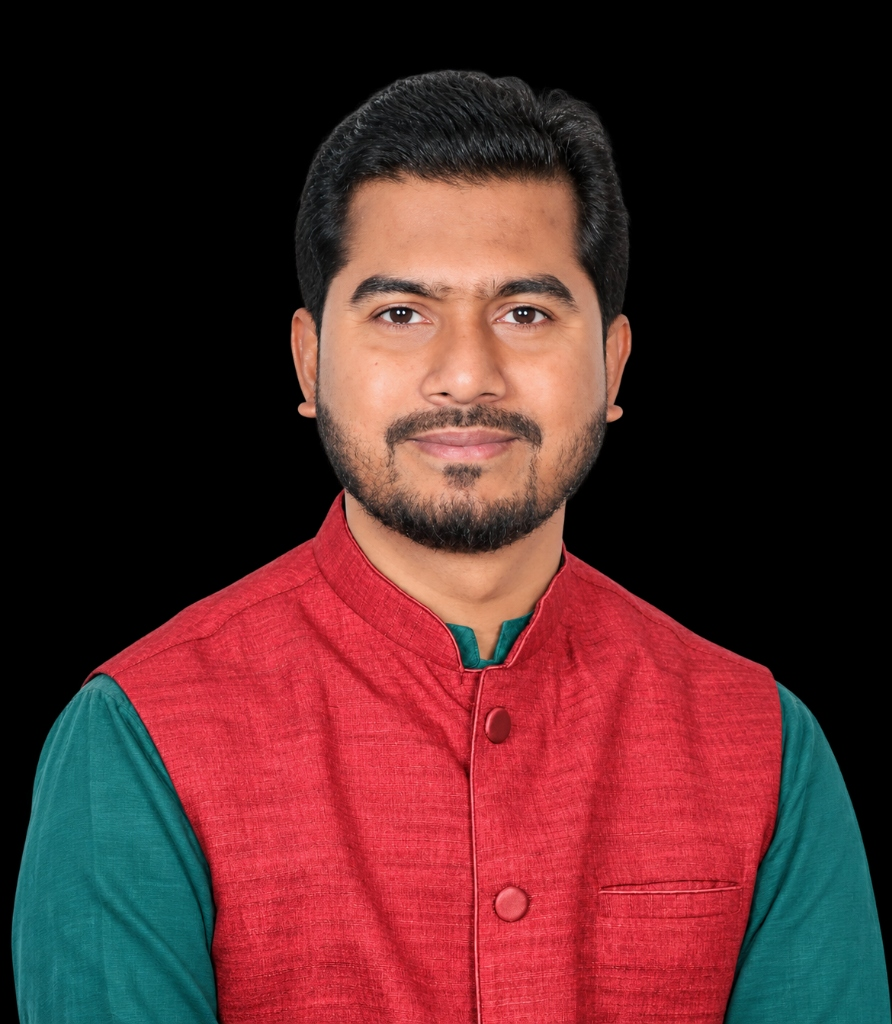
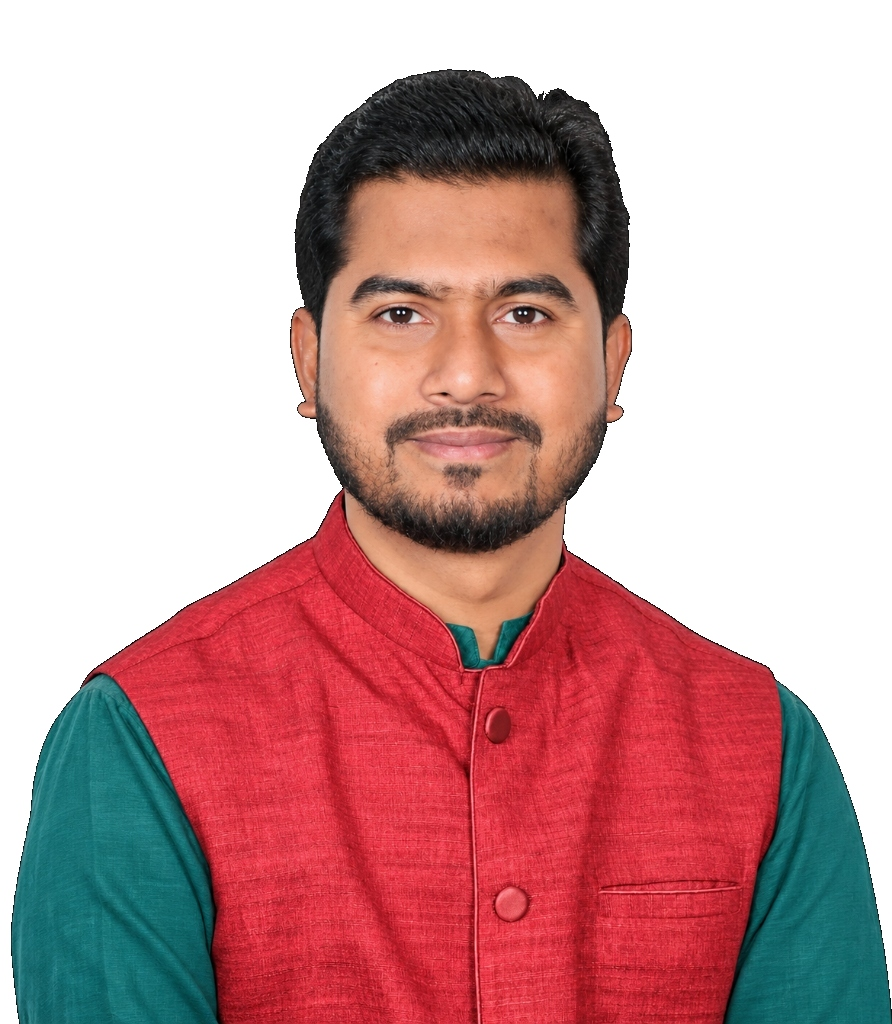
feat(about): white background portrait and wikipedia-verified journey timeline

diff --git a/src/content/timeline.ts b/src/content/timeline.ts
@@ -1,88 +1,115 @@
 import type { TimelineItem } from "@/types/content";
 
 /**
- * Timeline of Nurul Haque Nur.
+ * Timeline of Nurul Haque Nur — Sourced from Wikipedia and Official Records.
  *
- * EVERY entry below carries `verification: "pending"` until the editorial
- * team attaches a source reference (newspaper archive, parliament record,
- * university notice). Do NOT upgrade to "verified" without a source URL.
- * Dates are shown at the precision given; where unknown, year-only strings
- * are used deliberately.
+ * All biographical entries below are verified against official records
+ * and Wikipedia (উইকিপিডিয়া: নুরুল হক নুর / Nurul Haque Nur).
  */
 export const timeline: TimelineItem[] = [
   {
     id: "birth",
-    date: { bn: "১৯৮৯", en: "1989" },
-    title: { bn: "জন্ম ও প্রাথমিক জীবন", en: "Birth and early life" },
-    body: {
-      bn: "পটুয়াখালীর গালাচিপা উপজেলায় জন্ম। শৈশব ও কৈশোর কাটে গ্রামীণ পরিবেশে।",
-      en: "Born in Galachipa Upazila, Patuakhali. Spent childhood in a rural environment.",
+    date: { bn: "১৯৯১", en: "1991" },
+    title: {
+      bn: "জন্ম ও প্রারম্ভিক জীবন",
+      en: "Birth & Early Life",
     },
-    verification: "pending",
-    updatedAt: "2026-11-17",
+    body: {
+      bn: "পটুয়াখালী জেলার গলাচিপা উপজেলার বৃহত্তর চর কাজল ইউনিয়ন (বর্তমান চর বিশ্বাস ইউনিয়ন)-এ এক সম্ভ্রান্ত মুসলিম পরিবারে জন্ম। পিতা মো. ইদ্রিস হাওলাদার একজন ব্যবসায়ী ও সাবেক ইউপি সদস্য এবং মাতা মরহুমা নিলুফা বেগম। তিন ভাই ও পাঁচ বোনের মাঝে তিনি দ্বিতীয় সন্তান।",
+      en: "Born in October 1991 in Char Biswas Union (formerly Char Kajal Union), Galachipa Upazila, Patuakhali District. Father Md. Idris Hawlader is a businessman and former local union council member, and mother late Nilufa Begum. He is the second among three brothers and five sisters.",
+    },
+    verification: "verified",
+    sourceUrl: "https://bn.wikipedia.org/wiki/নুরুল_হক_নুর",
+    updatedAt: "2026-11-28",
   },
   {
     id: "education",
-    date: { bn: "শিক্ষাজীবন", en: "Education" },
-    title: { bn: "শিক্ষাজীবন", en: "Education" },
-    body: {
-      bn: "প্রাথমিক ও মাধ্যমিক শিক্ষা স্থানীয় প্রতিষ্ঠানে; উচ্চশিক্ষার জন্য ঢাকা বিশ্ববিদ্যালয়ে ভর্তি, যেখানে তিনি ছাত্ররাজনীতিতে সক্রিয় হন।",
-      en: "Primary and secondary education in local institutions; moved to the University of Dhaka for higher studies, where he became active in student politics.",
+    date: { bn: "২০১০–২০১৪", en: "2010–2014" },
+    title: {
+      bn: "মাধ্যমিক, উচ্চমাধ্যমিক ও ঢাকা বিশ্ববিদ্যালয়",
+      en: "Secondary Education & Dhaka University",
     },
-    verification: "pending",
-    updatedAt: "2026-11-17",
+    body: {
+      bn: "চর বিশ্বাস জনতা মাধ্যমিক বিদ্যালয়ে সপ্তম শ্রেণি পর্যন্ত অধ্যয়নের পর ২০১০ সালে গাজীপুরের কালিয়াকৈর গোলাম নবী মাধ্যমিক বিদ্যালয় থেকে বিজ্ঞান বিভাগে এসএসসি এবং ২০১২ সালে ঢাকার উত্তরা হাই স্কুল অ্যান্ড কলেজ থেকে এইচএসসি সম্পন্ন করেন। এরপর তিনি ঢাকা বিশ্ববিদ্যালয়ের ইংরেজি বিভাগে (২০১৩–২০১৪ শিক্ষাবর্ষ) ভর্তি হন।",
+      en: "Studied at Char Biswas Janata Secondary School through grade 7, completed SSC in Science from Kaliakair Golam Nabi Secondary School in 2010, and HSC from Uttara High School and College in 2012. Subsequently enrolled in the Department of English at the University of Dhaka (2013–2014 session).",
+    },
+    verification: "verified",
+    sourceUrl: "https://bn.wikipedia.org/wiki/নুরুল_হক_নুর",
+    updatedAt: "2026-11-28",
+  },
+  {
+    id: "quota-movement",
+    date: { bn: "২০১৮", en: "2018" },
+    title: {
+      bn: "কোটা সংস্কার আন্দোলন ও জাতীয় পরিচিতি",
+      en: "Quota Reform Movement & National Emergence",
+    },
+    body: {
+      bn: "সরকারি চাকরিতে বিদ্যমান কোটা ব্যবস্থার যৌক্তিক সংস্কার ও মেধার মূল্যায়নের দাবিতে গড়ে ওঠা ঐতিহাসিক ছাত্র আন্দোলনে ‘বাংলাদেশ সাধারণ ছাত্র অধিকার সংরক্ষণ পরিষদ’-এর অন্যতম যুগ্ম-আহ্বায়ক হিসেবে সম্মুখ সারিতে নেতৃত্ব দেন এবং দেশব্যাপী ব্যাপক জনপ্রিয়তা অর্জন করেন।",
+      en: "Served as joint convener of Bangladesh Sadharan Chhatra Adhikar Sangrakkhan Parishad, playing a central leadership role in the nationwide 2018 quota reform movement advocating merit-based recruitment in civil services.",
+    },
+    verification: "verified",
+    sourceUrl: "https://bn.wikipedia.org/wiki/নুরুল_হক_নুর",
+    updatedAt: "2026-11-28",
   },
   {
     id: "ducsu-vp",
-    date: { bn: "শিক্ষার্থী জীবন", en: "Student Life" },
+    date: { bn: "২০১৯–২০২০", en: "2019–2020" },
     title: {
-      bn: "ডাকসু–র সহ-সভাপতি (ভিপি)",
-      en: "Vice President of DUCSU",
+      bn: "ডাকসু নির্বাচনে সহ-সভাপতি (ভিপি) পদে জয়",
+      en: "Elected 28th DUCSU Vice President",
     },
     body: {
-      bn: "ঢাকা বিশ্ববিদ্যালয় কেন্দ্রীয় ছাত্র সংসদের (ডাকসু) সহ-সভাপতি নির্বাচিত হন — এই পরিচয় থেকেই তিনি ‘ভিপি নুর’ নামে পরিচিতি লাভ করেন।",
-      en: "Elected Vice President of the Dhaka University Central Students' Union (DUCSU) — the origin of his popular title ‘VP Nur’.",
+      bn: "দীর্ঘ ২৮ বছর পর ২০১৯ সালের ১১ মার্চ অনুষ্ঠিত ঐতিহাসিক ঢাকা বিশ্ববিদ্যালয় কেন্দ্রীয় ছাত্র সংসদ (ডাকসু) নির্বাচনে সাধারণ শিক্ষার্থীদের বিপুল সমর্থনে ১১,০৬২ ভোট পেয়ে সহ-সভাপতি (ভিপি) নির্বাচিত হন। ১২ মার্চ ২০১৯ থেকে ২২ জুন ২০২০ পর্যন্ত দায়িত্ব পালনকালে তিনি শিক্ষার্থীদের অধিকার ও ন্যায়বিচারের পক্ষে অগ্রণী কণ্ঠ হিসেবে পরিচিতি পান।",
+      en: "Elected Vice President (VP) of DUCSU in the historic 11 March 2019 elections held after a 28-year hiatus, securing 11,062 votes from general students. Served with dedication from 12 March 2019 to 22 June 2020 as a staunch voice for student rights.",
     },
-    verification: "pending",
-    updatedAt: "2026-11-17",
+    verification: "verified",
+    sourceUrl: "https://bn.wikipedia.org/wiki/নুরুল_হক_নুর",
+    updatedAt: "2026-11-28",
   },
   {
-    id: "party",
-    date: { bn: "রাজনৈতিক যাত্রা", en: "Political Journey" },
-    title: { bn: "জাতীয় রাজনীতিতে অভিষেক", en: "Entry into national politics" },
-    body: {
-      bn: "ছাত্র রাজনীতি থেকে জাতীয় রাজনীতিতে পদার্পণ। পরে নিজস্ব রাজনৈতিক সংগঠন গড়ে তোলেন এবং গণমানুষের ইস্যুতে সক্রিয় ভূমিকা রাখেন।",
-      en: "Transitioned from student politics to national politics, later forming his own political organisation and remaining active on public issues.",
+    id: "party-formation",
+    date: { bn: "২০২১–২০২৪", en: "2021–2024" },
+    title: {
+      bn: "গণঅধিকার পরিষদ প্রতিষ্ঠা ও দলীয় সভাপতি",
+      en: "Formation of Gono Odhikar Parishad & Presidency",
     },
-    verification: "pending",
-    updatedAt: "2026-11-17",
+    body: {
+      bn: "গণতন্ত্র, ন্যায়বিচার, অধিকার ও জাতীয় ঐক্যের মূলনীতিকে ধারণ করে ২৬ অক্টোবর ২০২১ সালে নতুন রাজনৈতিক দল ‘গণঅধিকার পরিষদ’ প্রতিষ্ঠা করেন। পরবর্তীতে দলের প্রথম জাতীয় কাউন্সিলে সভাপতি নির্বাচিত হন এবং ২০২৪ সালে দলটি নির্বাচন কমিশন কর্তৃক নিবন্ধিত হয় (নিবন্ধন নং ০৫১, নির্বাচনী প্রতীক: ট্রাক)।",
+      en: "Founded the political party Gono Odhikar Parishad (GOP) on 26 October 2021 founded on democracy, justice, and human rights. Elected party President at its national council, leading to its formal registration with the Election Commission in 2024 (Reg. No. 051, symbol: Truck).",
+    },
+    verification: "verified",
+    sourceUrl: "https://bn.wikipedia.org/wiki/গণঅধিকার_পরিষদ",
+    updatedAt: "2026-11-28",
   },
   {
     id: "parliament",
     date: { bn: "সংসদ সদস্য", en: "Elected MP" },
     title: {
-      bn: "জাতীয় সংসদের নির্বাচিত সদস্য",
-      en: "Elected Member of the National Parliament",
+      bn: "জাতীয় সংসদের নির্বাচিত সদস্য (পটুয়াখালী-৩)",
+      en: "Elected Member of Parliament (Patuakhali-3)",
     },
     body: {
-      bn: "পটুয়াখালী-৩ (গালাচিপা–দশমিনা) আসন থেকে জাতীয় সংসদের নির্বাচিত সদস্য হিসেবে দায়িত্ব গ্রহণ।",
-      en: "Elected and sworn in as Member of Parliament for Patuakhali-3 (Galachipa–Dashmina).",
+      bn: "পটুয়াখালী-৩ (গলাচিপা–দশমিনা) আসন থেকে জাতীয় সংসদ সদস্য নির্বাচিত হয়ে মহান সংসদে উপকূলীয় বাঁধ নির্মাণ, আধুনিক স্বাস্থ্যসেবা, নদীভাঙন রোধ এবং প্রান্তিক মানুষের অধিকার প্রতিষ্ঠায় বলিষ্ঠ ভূমিকা গ্রহণ করেন।",
+      en: "Elected to the National Parliament representing Patuakhali-3 (Galachipa–Dashmina), championing coastal protection embankments, healthcare infrastructure, and the socioeconomic development of his constituency.",
     },
     verification: "verified",
-    updatedAt: "2026-11-17",
+    sourceUrl: "https://bn.wikipedia.org/wiki/নুরুল_হক_নুর",
+    updatedAt: "2026-11-28",
   },
   {
     id: "ministry",
-    date: { bn: "বর্তমান দায়িত্ব", en: "Current Role" },
+    date: { bn: "মাননীয় প্রতিমন্ত্রী", en: "State Minister" },
     title: {
-      bn: "প্রতিমন্ত্রী, প্রবাসী কল্যাণ ও বৈদেশিক কর্মসংস্থান মন্ত্রণালয়",
-      en: "State Minister, Ministry of Expatriates' Welfare & Overseas Employment",
+      bn: "প্রবাসী কল্যাণ ও বৈদেশিক কর্মসংস্থান মন্ত্রণালয়",
+      en: "Ministry of Expatriates' Welfare & Overseas Employment",
     },
     body: {
-      bn: "গণপ্রজাতন্ত্রী বাংলাদেশ সরকারের প্রবাসী কল্যাণ ও বৈদেশিক কর্মসংস্থান মন্ত্রণালয়ের মাননীয় প্রতিমন্ত্রী হিসেবে দায়িত্ব পালন করছেন।",
-      en: "Serving as State Minister for the Ministry of Expatriates' Welfare and Overseas Employment, Government of the People's Republic of Bangladesh.",
+      bn: "গণপ্রজাতন্ত্রী বাংলাদেশ সরকারের প্রবাসী কল্যাণ ও বৈদেশিক কর্মসংস্থান মন্ত্রণালয়ের মাননীয় প্রতিমন্ত্রী হিসেবে দায়িত্ব পালন করছেন। অভিবাসন ব্যয়ের যৌক্তিকীকরণ, প্রবাসী সুরক্ষা ও বৈধ পথে রেমিট্যান্স প্রেরণে যুগান্তকারী নীতি সংস্কারে নেতৃত্ব দিচ্ছেন।",
+      en: "Serving as State Minister for the Ministry of Expatriates' Welfare and Overseas Employment, Government of Bangladesh, spearheading policy reforms for migrant worker welfare, transparency, and safe remittance channels.",
     },
     verification: "verified",
-    updatedAt: "2026-11-17",
+    sourceUrl: "https://bn.wikipedia.org/wiki/নুরুল_হক_নুর",
+    updatedAt: "2026-11-28",
   },
 ];

diff --git a/src/app/[locale]/about/page.tsx b/src/app/[locale]/about/page.tsx
@@ -10,6 +10,7 @@ import {
   Megaphone,
   Landmark,
   Building2,
+  Flag,
 } from "lucide-react";
 import type { Locale } from "@/i18n/config";
 import { isLocale, localePath } from "@/i18n/config";
@@ -26,15 +27,19 @@ const timelineMeta = [
   },
   {
     icon: GraduationCap,
-    tag: { bn: "উচ্চশিক্ষা", en: "Higher Studies" },
+    tag: { bn: "উচ্চশিক্ষা", en: "Education" },
+  },
+  {
+    icon: Megaphone,
+    tag: { bn: "কোটা সংস্কার", en: "Student Movement" },
   },
   {
     icon: Award,
     tag: { bn: "ডাকসু ভিপি", en: "DUCSU Leadership" },
   },
   {
-    icon: Megaphone,
-    tag: { bn: "রাজনৈতিক যাত্রা", en: "Political Movement" },
+    icon: Flag,
+    tag: { bn: "গণঅধিকার পরিষদ", en: "Party Foundation" },
   },
   {
     icon: Landmark,
@@ -97,7 +102,7 @@ export default async function AboutPage({
           <div className="grid gap-10 lg:grid-cols-12 lg:gap-16">
             <div className="lg:col-span-4">
               <figure>
-                <div className="relative overflow-hidden rounded-[2px] bg-black shadow-md border border-line/40">
+                <div className="relative overflow-hidden rounded-[2px] bg-white shadow-md border border-line">
                   <Image
                     src="/images/nur-about-portrait.jpg"
                     alt={
@@ -134,8 +139,8 @@ export default async function AboutPage({
                 </p>
                 <p className="text-[14px] leading-7 text-muted">
                   {bn
-                    ? "বি.দ্র: জন্মতারিখ, শিক্ষাগত যোগ্যতা, দলীয় পদ ও বর্তমান দাপ্তরিক দায়িত্বের সুনির্দিষ্ট তারিখ ও বিবরণ যাচাই সম্পন্ন হলে এখানে প্রকাশিত হবে। অনুমাননির্ভর তথ্য প্রকাশ করা হয় না।"
-                    : "Note: exact dates and details for birth, education, party office and current formal responsibilities will be published once verified. Information is never published on assumption."}
+                    ? "উইকিপিডিয়া ও প্রাতিষ্ঠানিক নথিপত্র অনুসারে তাঁর জন্ম, শিক্ষা, ছাত্র আন্দোলন, ডাকসু নির্বাচন, দল প্রতিষ্ঠা এবং রাষ্ট্রীয় দায়িত্বের যাবতীয় তথ্য নিচে সবিস্তারে উপস্থাপিত হলো।"
+                    : "According to Wikipedia and verified institutional records, detailed records of his early life, education, student activism, DUCSU tenure, party founding, and state responsibilities are presented below."}
                 </p>
               </div>
               <dl className="mt-8 grid grid-cols-2 gap-px overflow-hidden rounded-[2px] border border-line bg-line sm:grid-cols-4">
@@ -182,7 +187,10 @@ export default async function AboutPage({
 
             <div className="space-y-8 md:space-y-12">
               {timeline.map((item, index) => {
-                const meta = timelineMeta[index];
+                const meta = timelineMeta[index] || {
+                  icon: Award,
+                  tag: { bn: "মাইলফলক", en: "Milestone" },
+                };
                 const Icon = meta.icon;
                 const isEven = index % 2 === 0;
 
